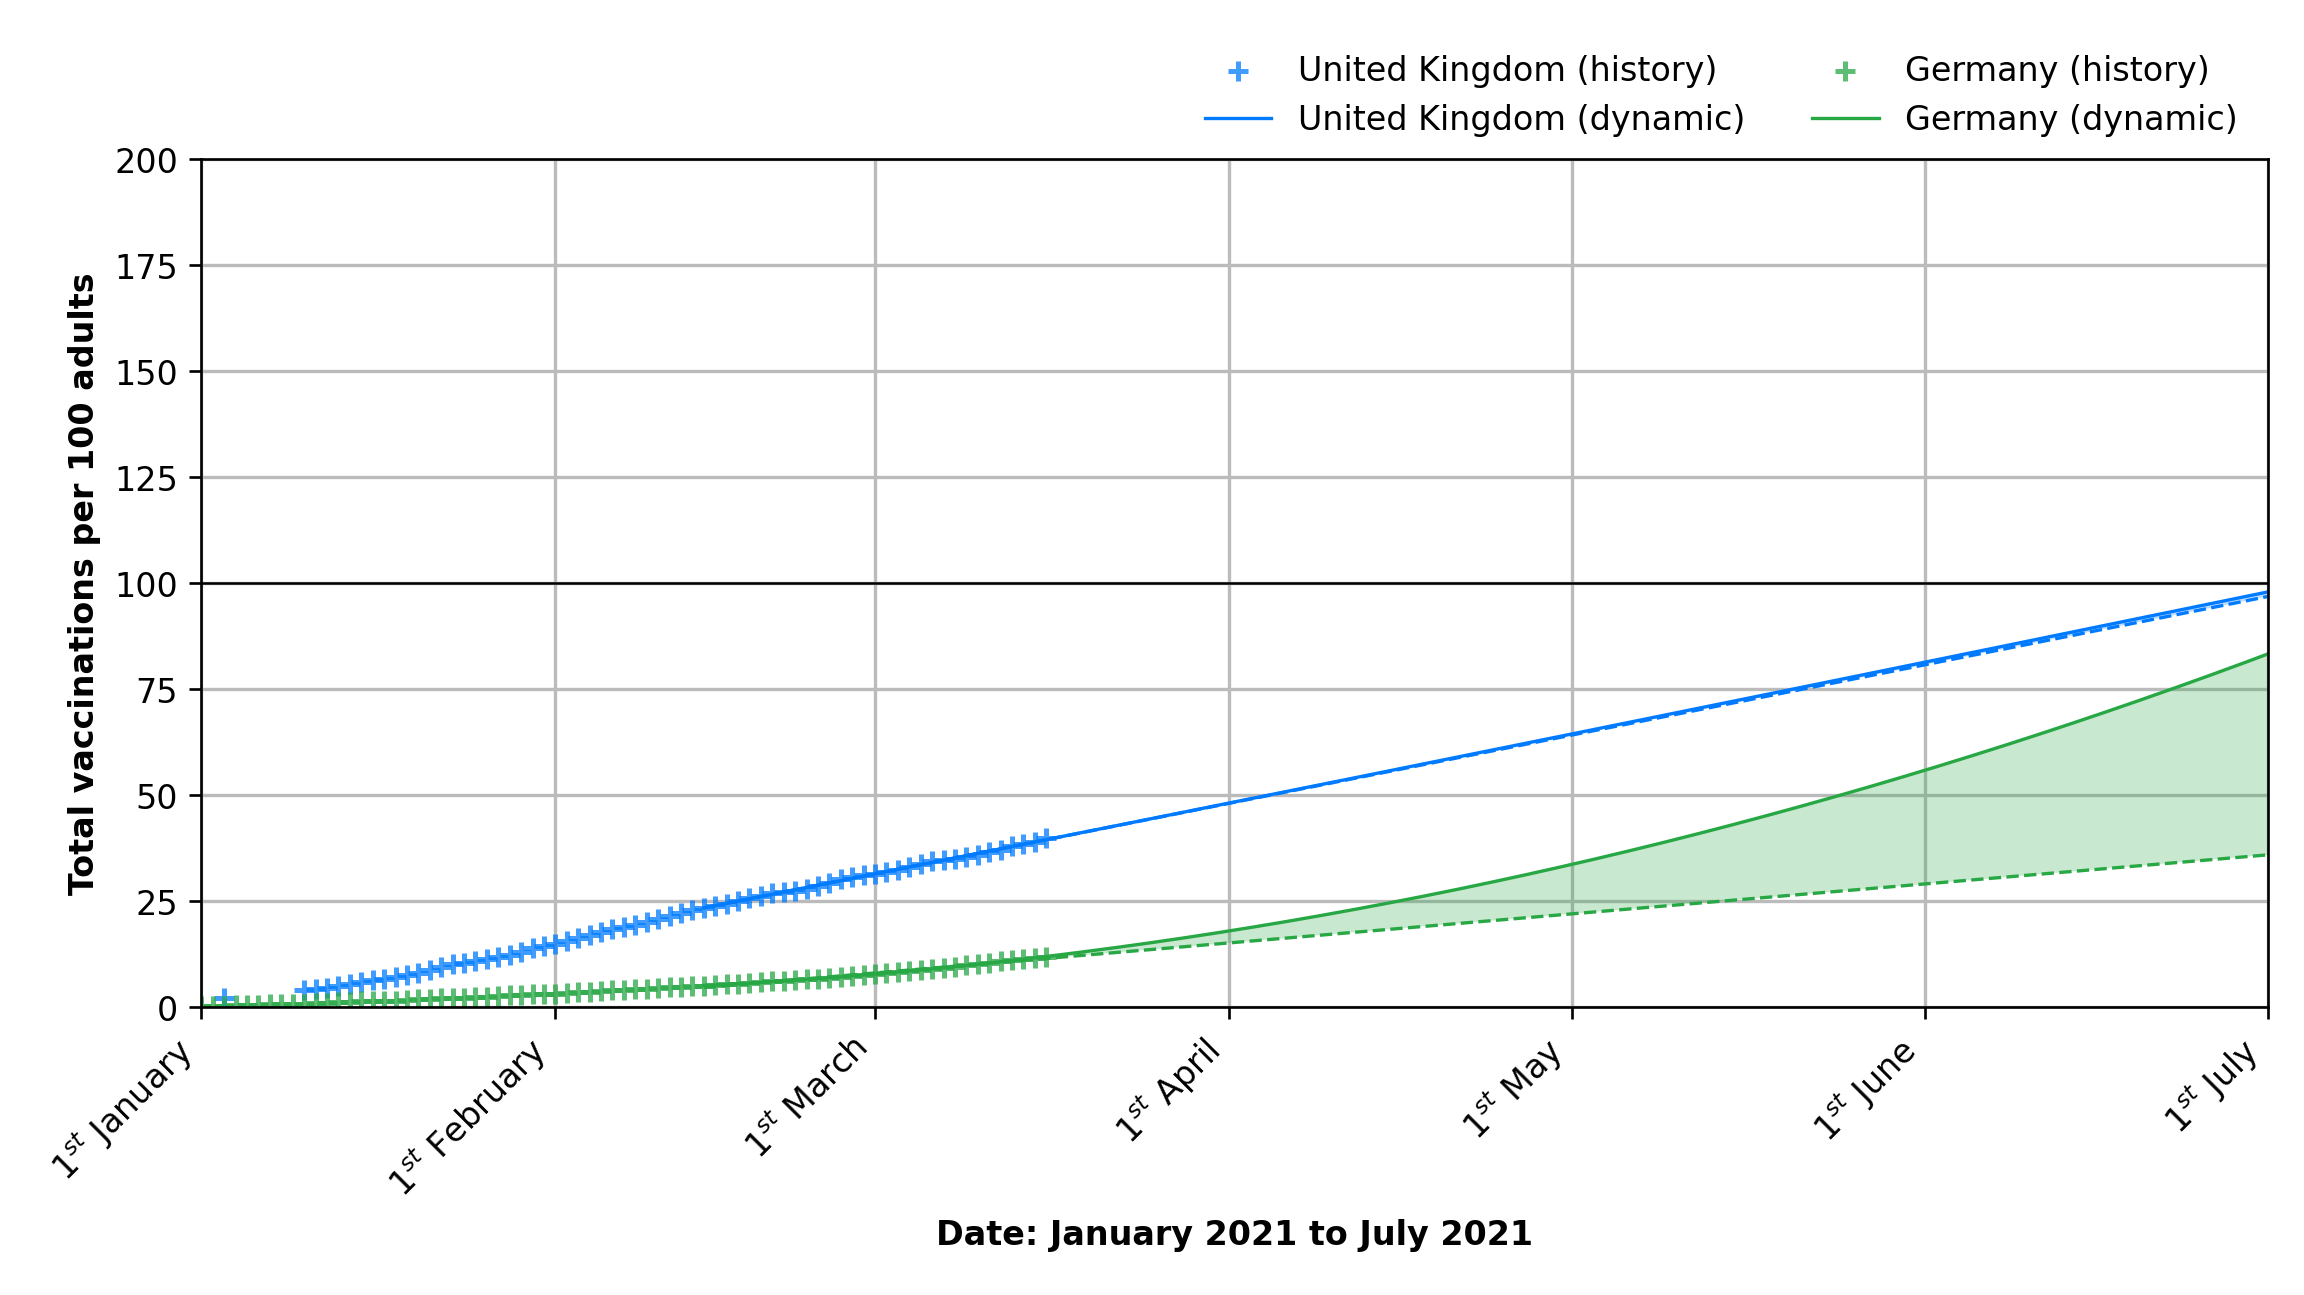
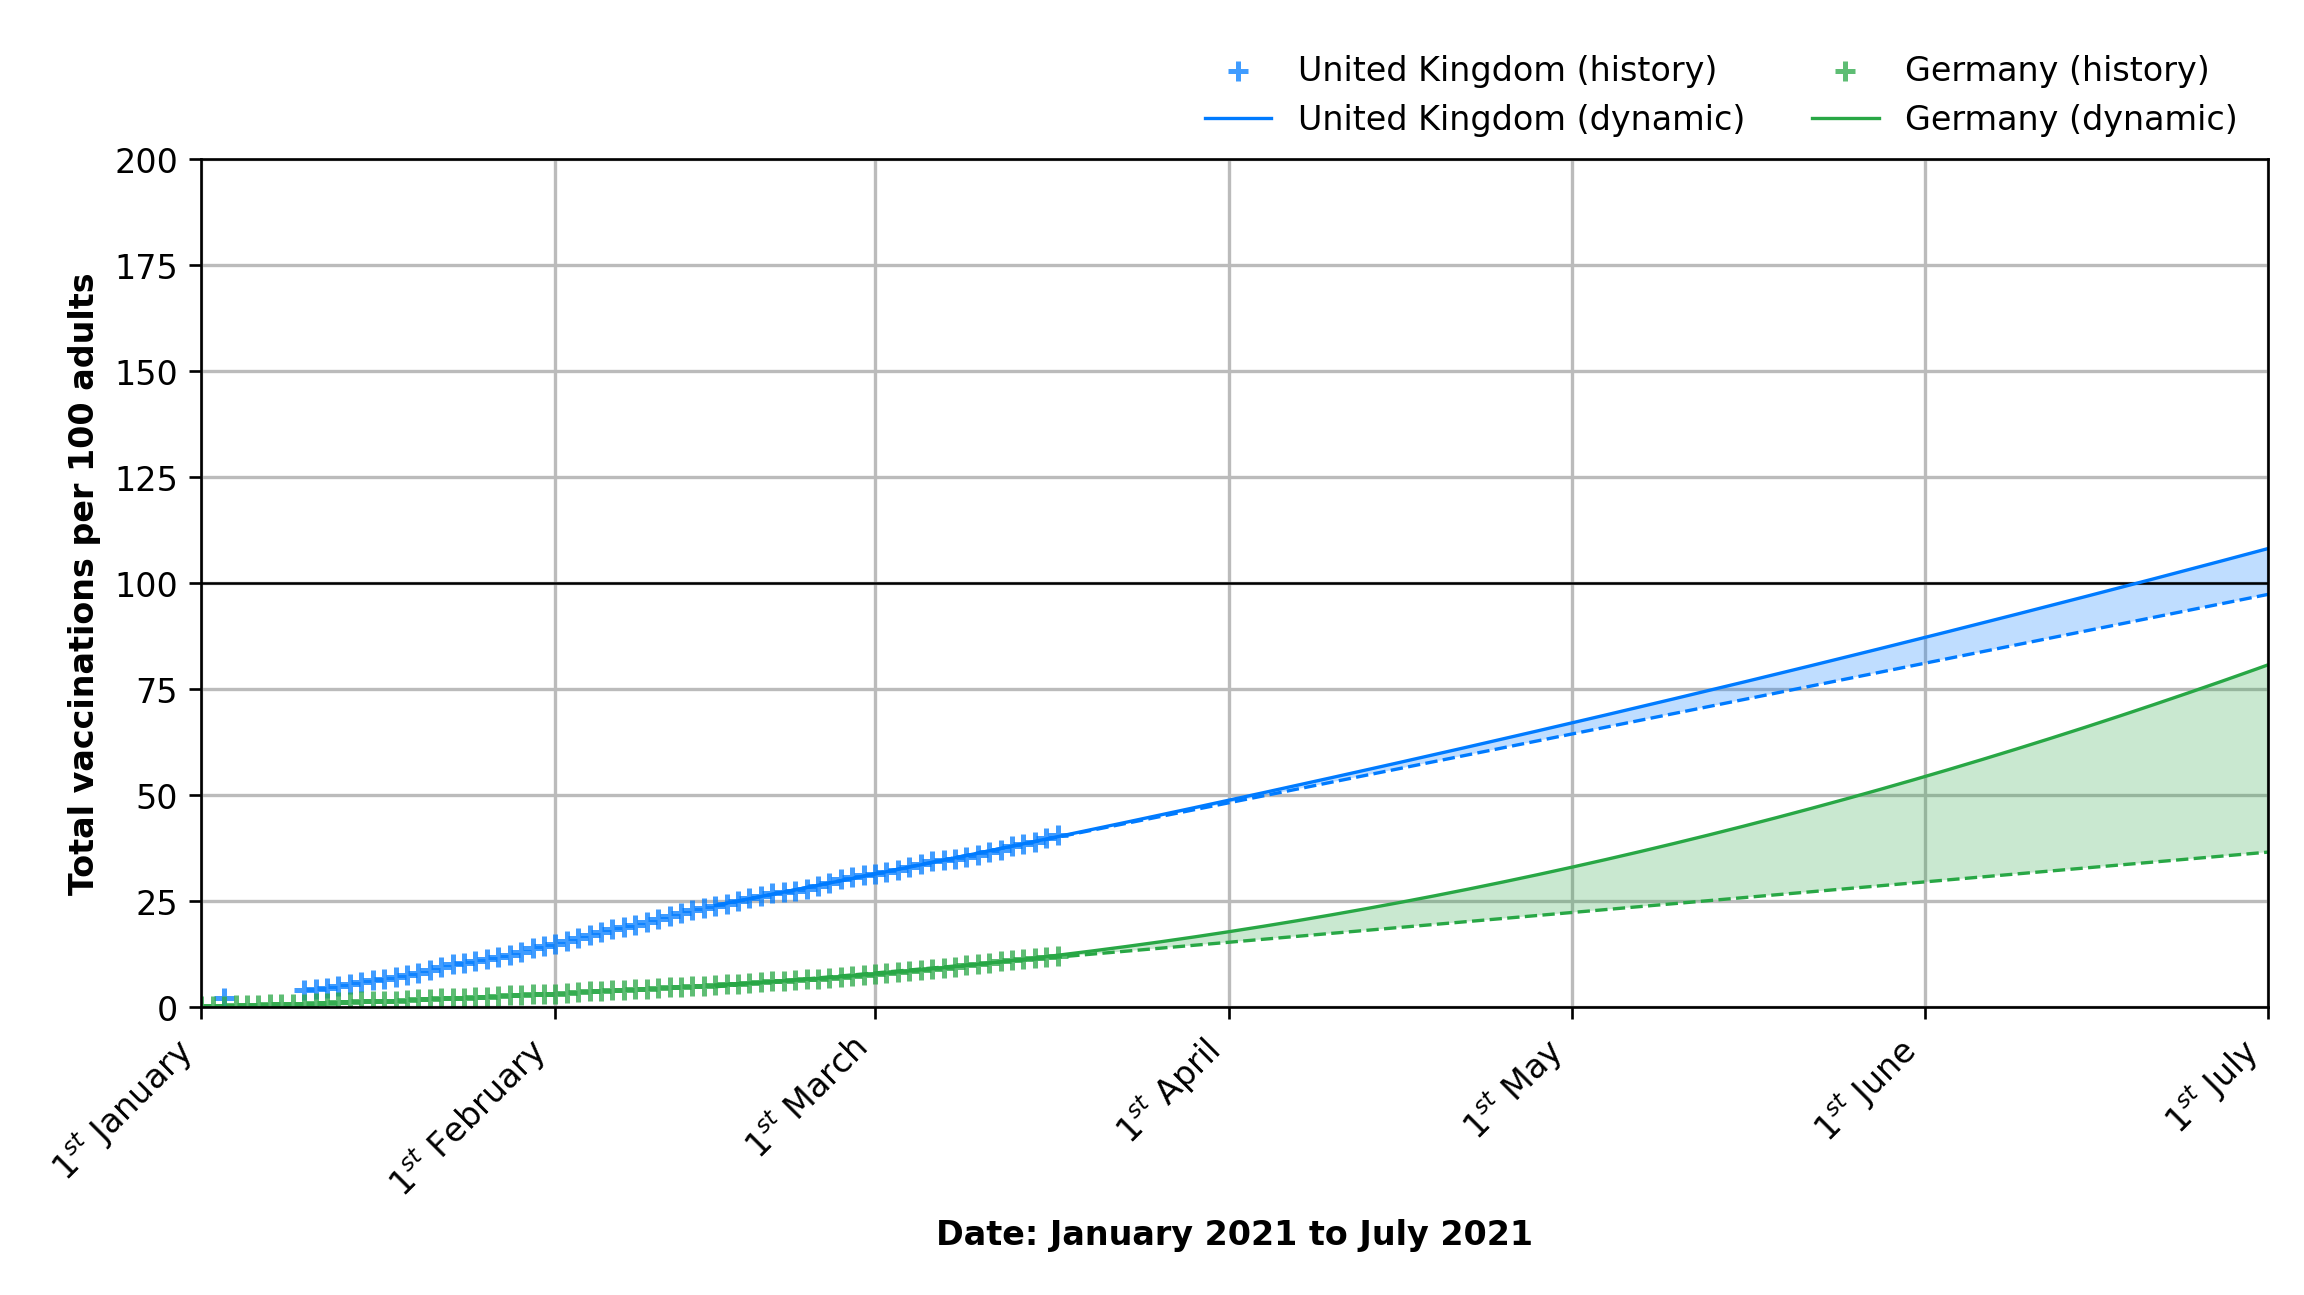
Deploying to gh-pages from @ lambdapioneer/vactrend@1b8b436be16664886d7738f8712cdc14d83be6f4 🚀

diff --git a/index.html b/index.html
@@ -37,13 +37,13 @@
                 <div class="card">
                     <div class="card-header">🇬🇧 United Kingdom</div>
                     <div class="card-body">
-                        <h3 class="font-weight-bold" style="color: #007bff">39.82 <small>(+0.78/d)</small></h3>
+                        <h3 class="font-weight-bold" style="color: #007bff">40.68 <small>(+0.86/d)</small></h3>
                         <p class="mt-n2">Vaccinations per 100 adults</p>
-                        <h3 class=" font-weight-bold">05 July 2021</h3>
+                        <h3 class=" font-weight-bold">20 June 2021</h3>
                         <p class="mt-n2">Earliest day: 100 vacc. per 100 adults</p>
-                        <h3 class=" font-weight-bold">28 December 2021</h3>
+                        <h3 class=" font-weight-bold">24 October 2021</h3>
                         <p class="mt-n2">Earliest day: 200 vacc. per 100 adults</p>
-                        <p class="card-text"><small class="text-muted">Last data from 16 March 2021.</small></p>
+                        <p class="card-text"><small class="text-muted">Last data from 17 March 2021.</small></p>
                     </div>
                 </div>
             </div>
@@ -52,13 +52,13 @@
                 <div class="card">
                     <div class="card-header">🇩🇪 Germany</div>
                     <div class="card-body">
-                        <h3 class="font-weight-bold" style="color: #28a745">11.76 <small>(+0.21/d)</small></h3>
+                        <h3 class="font-weight-bold" style="color: #28a745">12.02 <small>(+0.24/d)</small></h3>
                         <p class="mt-n2">Vaccinations per 100 adults</p>
-                        <h3 class=" font-weight-bold">17 July 2021</h3>
+                        <h3 class=" font-weight-bold">20 July 2021</h3>
                         <p class="mt-n2">Earliest day: 100 vacc. per 100 adults</p>
-                        <h3 class=" font-weight-bold">29 September 2021</h3>
+                        <h3 class=" font-weight-bold">04 October 2021</h3>
                         <p class="mt-n2">Earliest day: 200 vacc. per 100 adults</p>
-                        <p class="card-text"><small class="text-muted">Last data from 16 March 2021.</small></p>
+                        <p class="card-text"><small class="text-muted">Last data from 17 March 2021.</small></p>
                     </div>
                 </div>
             </div>
